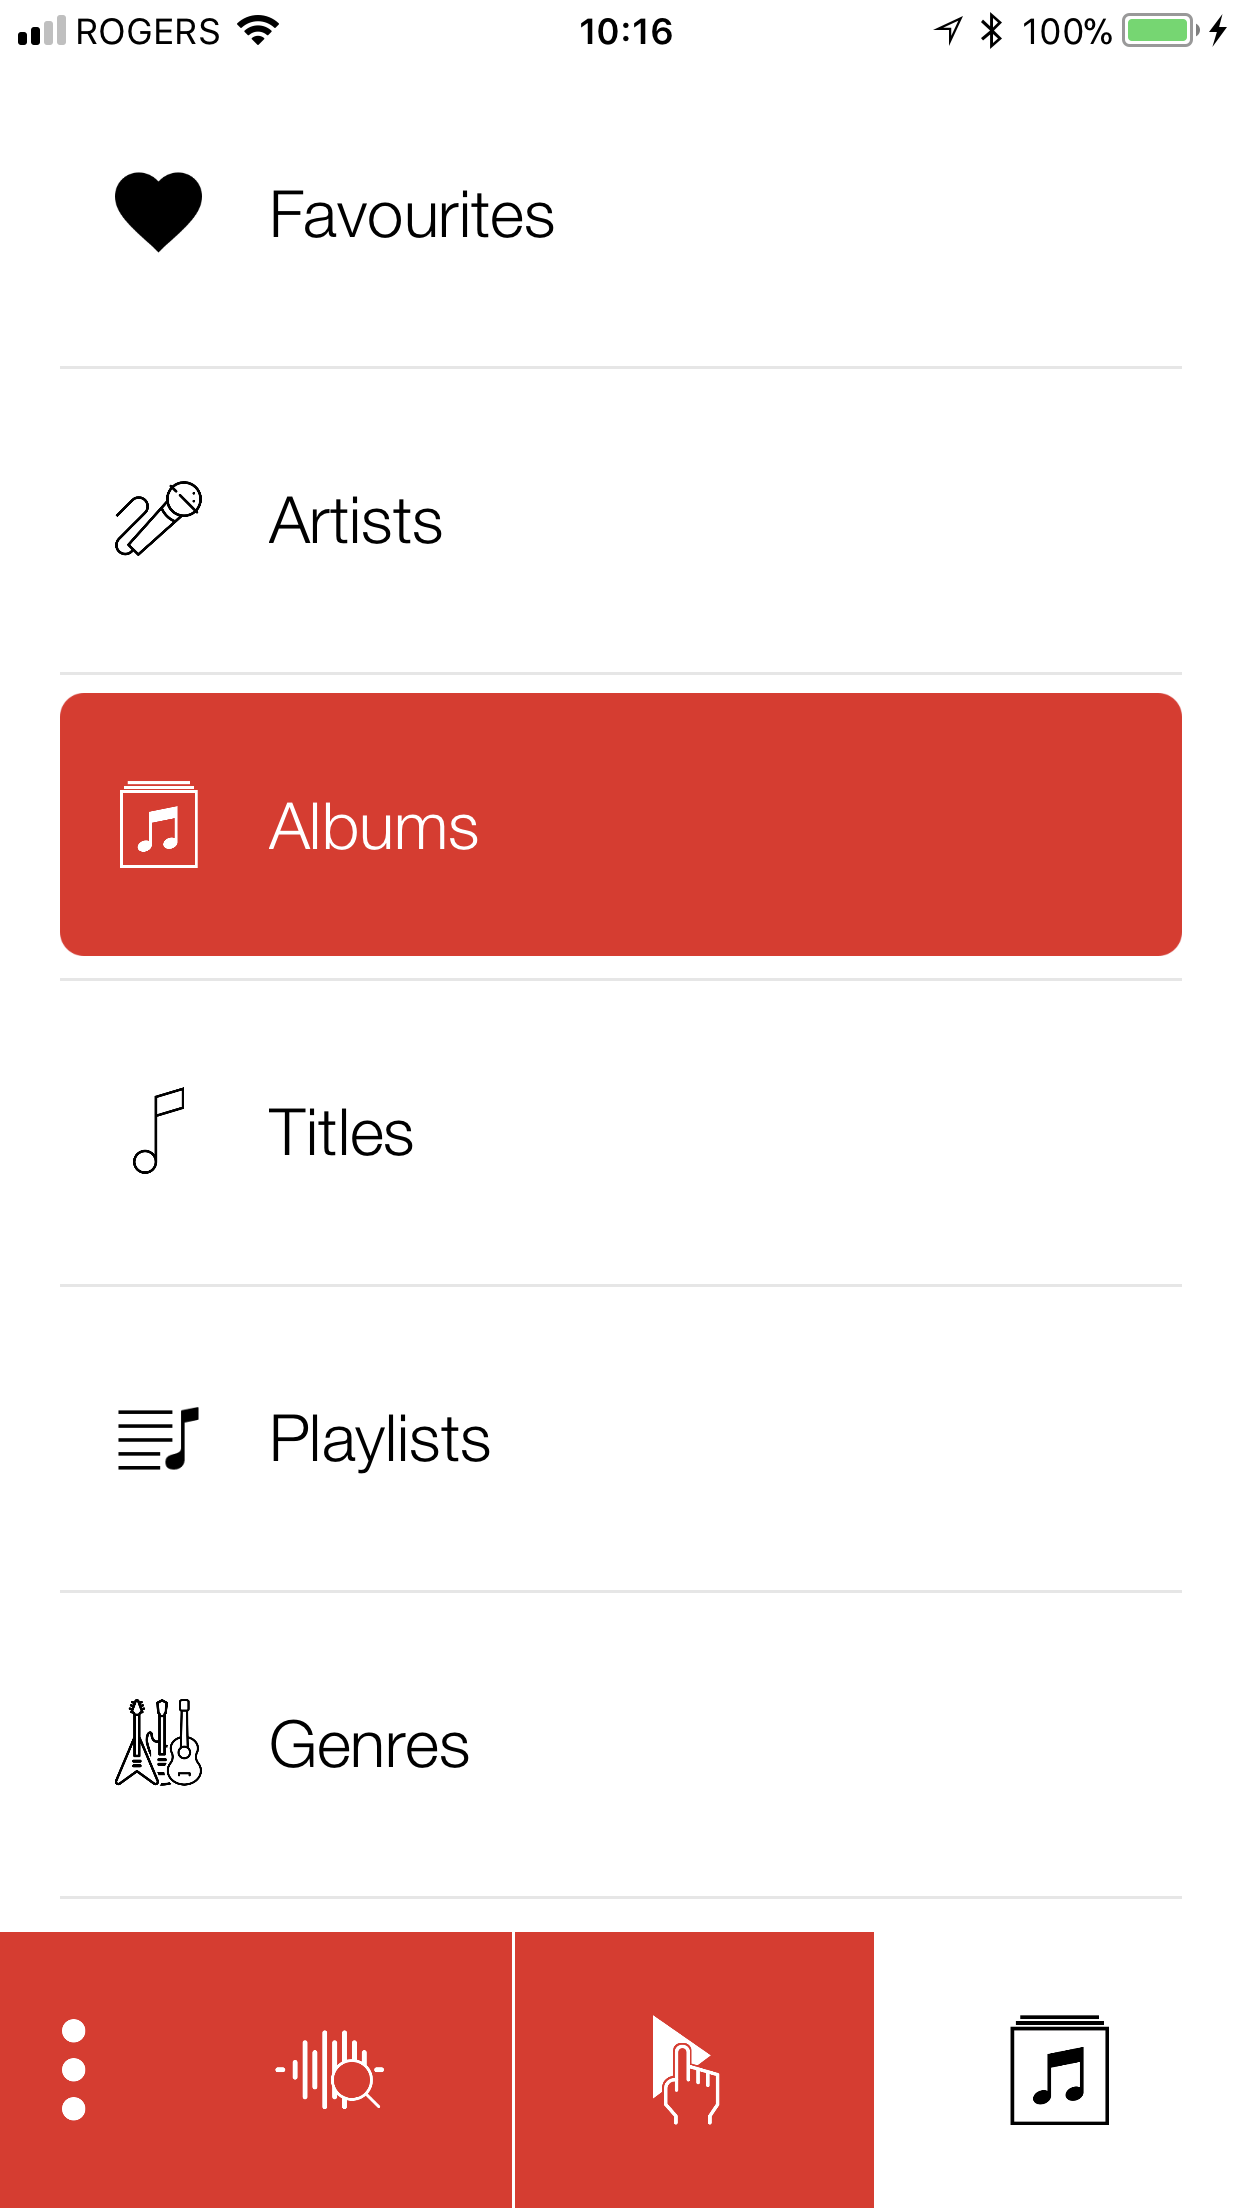
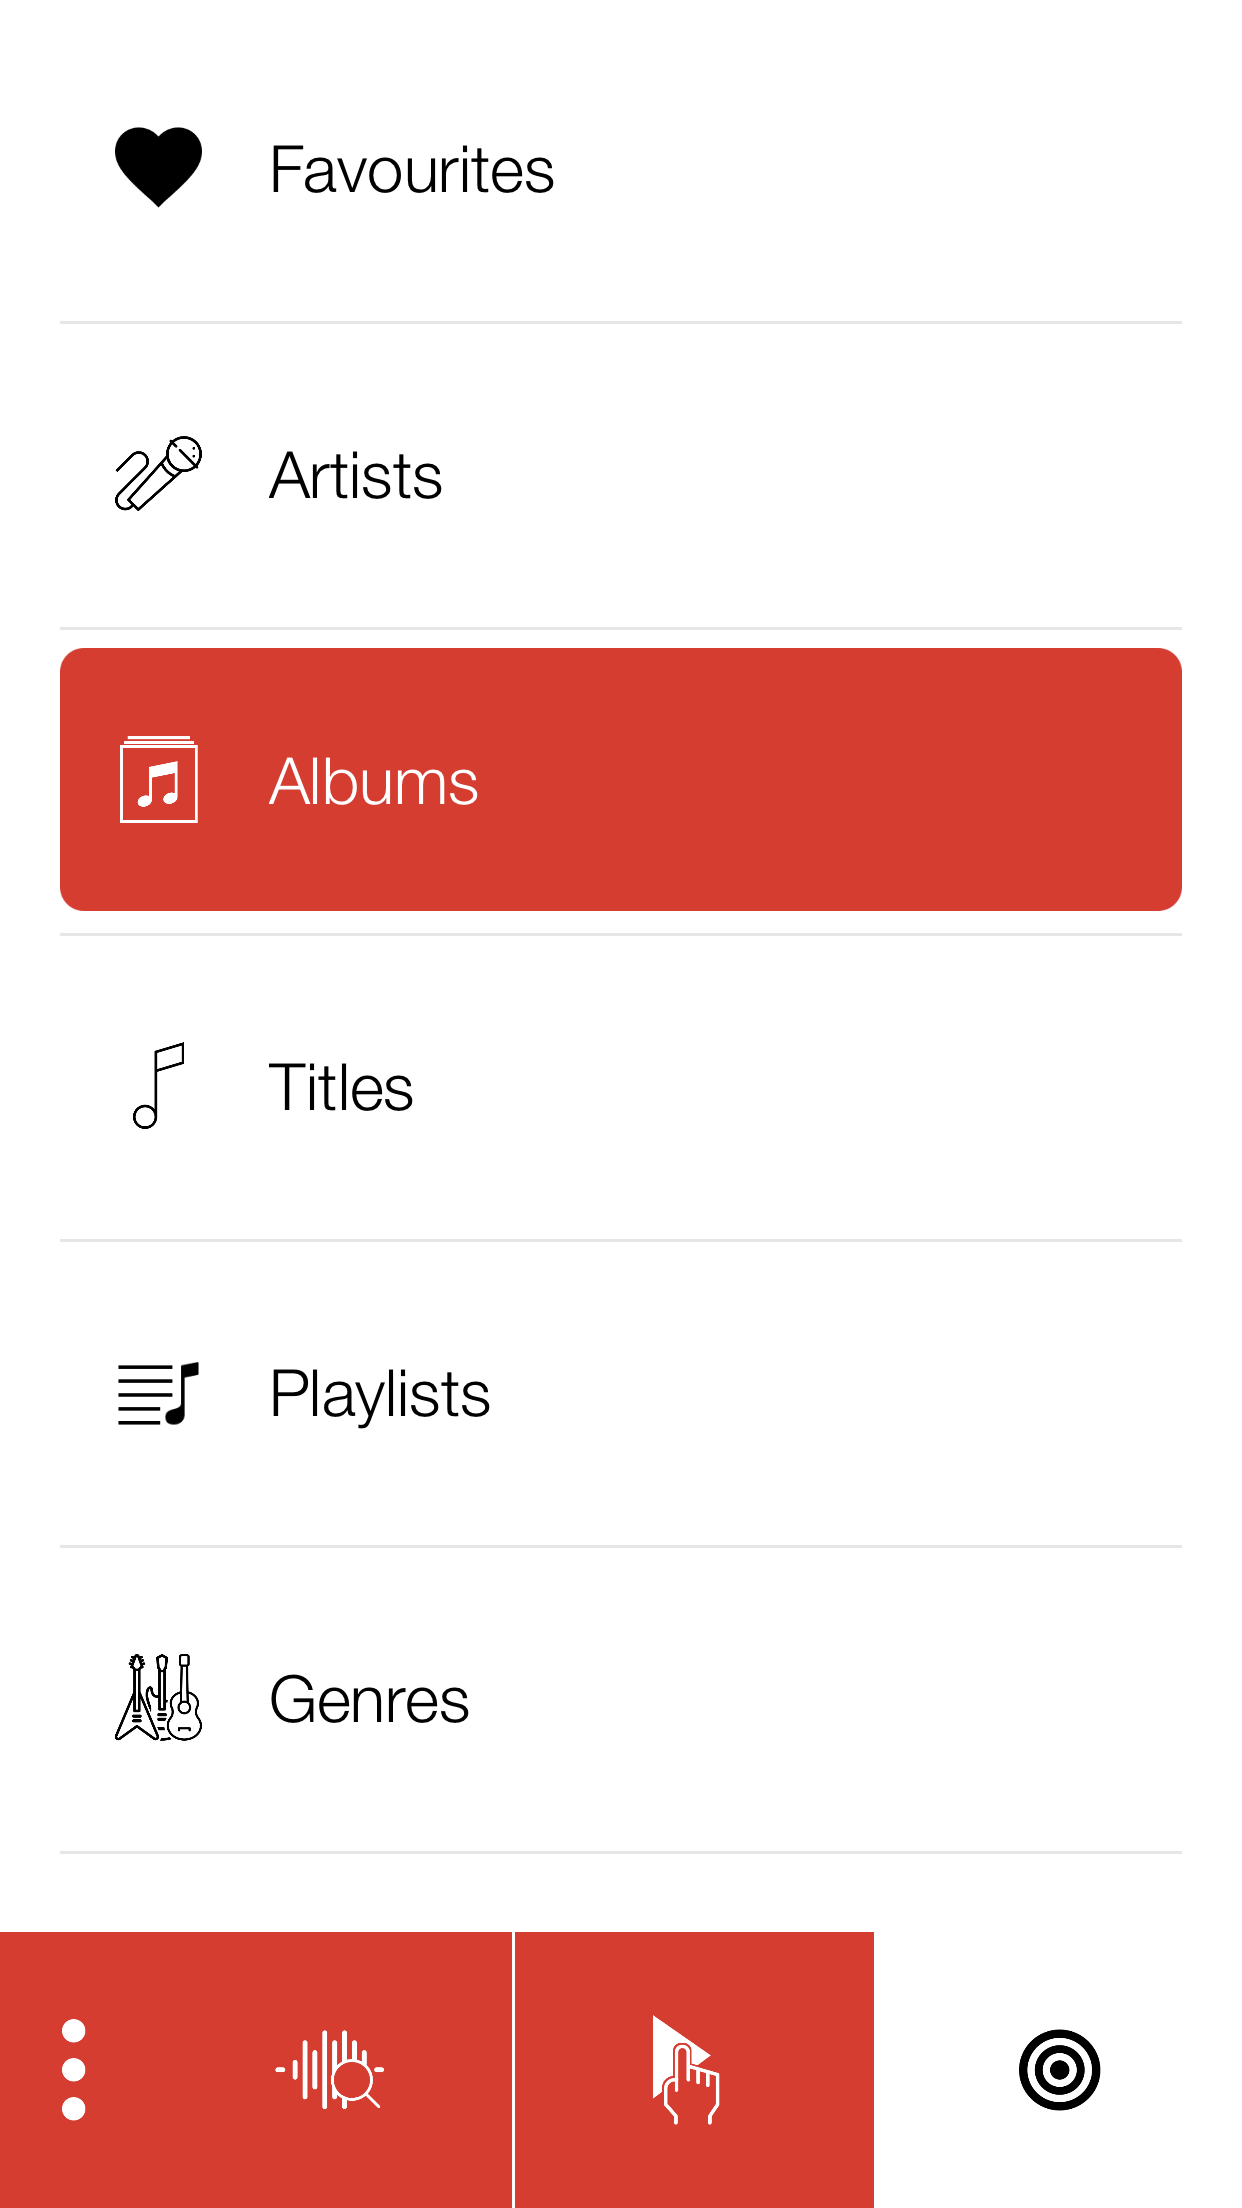
Removed status bar from screenshots (the status bar was bugged when I took them)

diff --git a/Lignite Music/LMSourceSelectorView.m b/Lignite Music/LMSourceSelectorView.m
@@ -203,7 +203,7 @@
 	self.collectionView.translatesAutoresizingMaskIntoConstraints = NO;
 	self.collectionView.delegate = self;
 	self.collectionView.dataSource = self;
-	self.collectionView.contentInset = UIEdgeInsetsMake(5, 20, 20, 20);
+	self.collectionView.contentInset = UIEdgeInsetsMake(10, 20, 20, 20);
 	[self.collectionView registerClass:[UICollectionViewCell class] forCellWithReuseIdentifier:@"sourceSelectorCellIdentifier"];
 	[self addSubview:self.collectionView];
 	

diff --git a/Lignite Music/LMThemePickerViewController.m b/Lignite Music/LMThemePickerViewController.m
@@ -136,6 +136,8 @@
 	
 	[[LMThemeEngine sharedThemeEngine] selectTheme:themeView.theme];
 	
+	[self.navigationController popToRootViewControllerAnimated:NO];
+	
 	NSLog(@"COMMIT %p!!!", viewControllerToCommit);
 	
 //	[self.navigationController pushViewController:viewControllerToCommit animated:YES];
